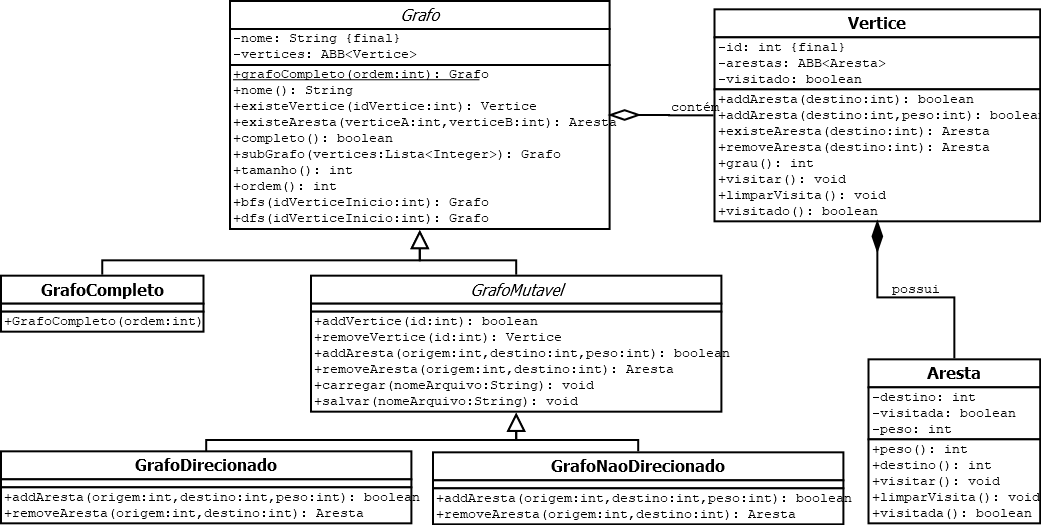
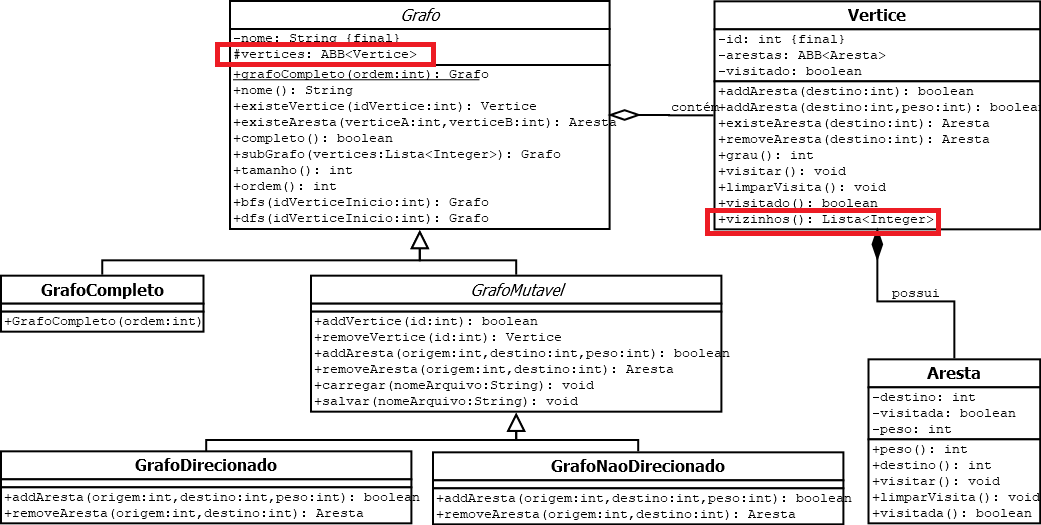
Metodo existeVertice feito e UML atualizado

Changed region(s): [[0.6763, 0.0, 1.0, 0.4876], [0.1844, 0.061, 0.4304, 0.1524], [0.83, 0.5486, 0.9222, 0.579]]

diff --git a/codigo/grafos/src/main/java/app/Grafo.java b/codigo/grafos/src/main/java/app/Grafo.java
@@ -84,7 +84,16 @@ public abstract class Grafo {
         return null;
     }
 
-    public Vertice existeVertice(int idVertice){
+
+    public Vertice existeVertice(int idVertice) {
+        for (int i = 0; i < vertices.size(); i++) {
+            Vertice vertice = vertices.find(i);
+            if (vertice.getId() == idVertice) {
+                
+                return vertice;
+            }
+        }
+        
         return null;
     }
 

diff --git a/codigo/grafos/src/main/java/app/GrafoMutavel.java b/codigo/grafos/src/main/java/app/GrafoMutavel.java
@@ -14,14 +14,11 @@ public abstract class GrafoMutavel extends Grafo {
         super(nome);
     }
 
-    // Implementar *Duvida
 
     public boolean addVertice(int id){
         Vertice novo = new Vertice(id);
         return this.vertices.add(id, novo);
     }
-
-    // Implementar *Duvida
 
     public Vertice removeVertice(int id){
         
